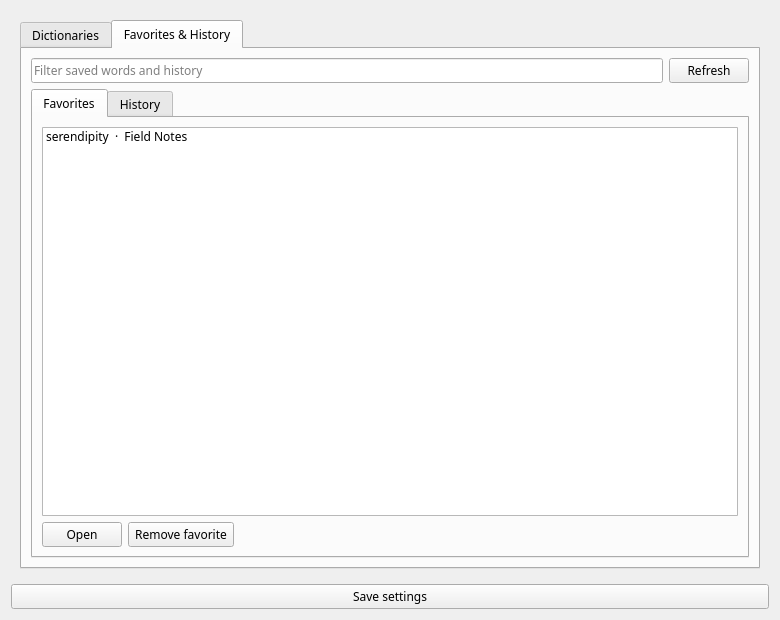
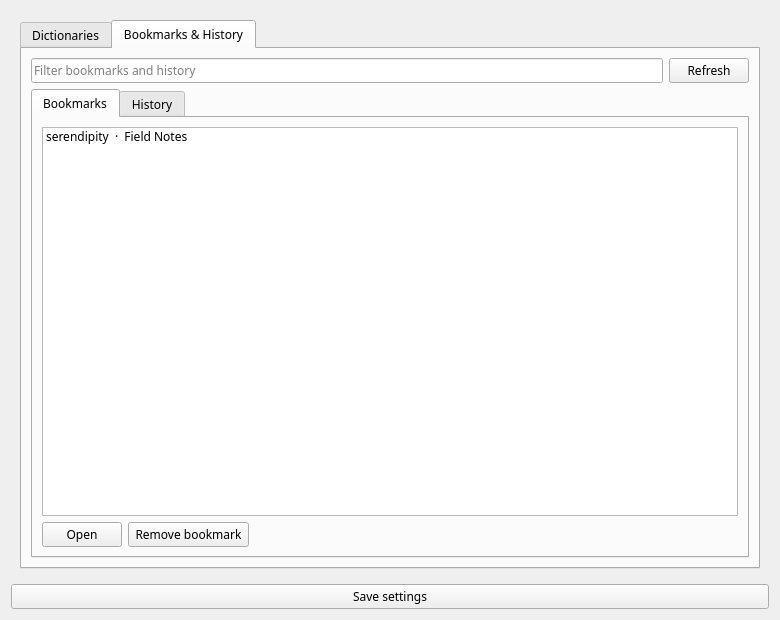
Document bookmarks and verify Unicode navigation

diff --git a/tests/articlewindow_test.cpp b/tests/articlewindow_test.cpp
@@ -10,6 +10,7 @@
 #include <QUrl>
 #include <QtTest>
 #include <sqlite3.h>
+#include <algorithm>
 
 class ArticleWindowTest : public QObject {
     Q_OBJECT
@@ -47,6 +48,7 @@ void ArticleWindowTest::bookmarkAndLinkedEntry()
     QVERIFY(preferences->text().isEmpty());
     QVERIFY(!bookmark->icon().isNull());
     QVERIFY(!preferences->icon().isNull());
+    QVERIFY(preferences->toolTip().contains(QStringLiteral("Preferences")));
     bookmark->click();
     const auto saved = UserState::favorites();
     QCOMPARE(saved.size(), 1);
@@ -58,8 +60,15 @@ void ArticleWindowTest::bookmarkAndLinkedEntry()
     QVERIFY(QMetaObject::invokeMethod(body, "anchorClicked", Qt::DirectConnection, Q_ARG(QUrl, link)));
     QCOMPARE(window.currentArticle().headword, QStringLiteral("猫"));
     QVERIFY(body->toPlainText().contains(QStringLiteral("猫 means cat")));
+    bookmark->click();
+    const auto savedAfterNavigation = UserState::favorites();
+    QCOMPARE(savedAfterNavigation.size(), 2);
+    QVERIFY(std::any_of(savedAfterNavigation.cbegin(), savedAfterNavigation.cend(), [](const SavedEntry &entry) {
+        return entry.headword == QStringLiteral("猫") && !entry.source.isEmpty();
+    }));
     QCOMPARE(UserState::history().size(), 2);
     UserState::setFavorite(Store::article(source, 1), false);
+    UserState::setFavorite(Store::article(source, 2), false);
     UserState::clearHistory();
     QFile::remove(path);
     QFile::remove(UserState::databasePath());

diff --git a/README.md b/README.md
@@ -1,8 +1,8 @@
 # Wordspring Runner
 
-An offline dictionary lookup plugin for Plasma 6 KRunner. Type `define word` to see up to four short meanings from each enabled dictionary; press Enter to read the full entry in a styled article window. Save favorite entries and revisit recent lookups from settings. The trigger word is configurable.
+An offline dictionary lookup plugin for Plasma 6 KRunner. Type `define word` to see up to four short meanings from each enabled dictionary; press Enter to read the full entry in a styled article window. Bookmark entries and revisit recent lookups from settings. The trigger word is configurable.
 
-| Article | Dictionaries | Favorites and history |
+| Article | Dictionaries | Bookmarks and history |
 | --- | --- | --- |
 | ![Wordspring article window, using synthetic dictionary content](docs/screenshots/wordspring-article.png) | ![Wordspring dictionary settings, using synthetic dictionary names](docs/screenshots/wordspring-settings.png) | ![Wordspring saved words settings, using synthetic entries](docs/screenshots/wordspring-activity.png) |
 
@@ -14,7 +14,7 @@ The screenshots use synthetic entries. No dictionary data is included in the rep
 - Add a folder to discover multiple dictionary bundles and StarDict files. Enable, disable, reorder, reimport, or remove sources in settings. Each source has an editable short label for KRunner; for example, Oxford Dictionary of English defaults to **ODE**.
 - Keep an indexed SQLite copy of each dictionary in your XDG data directory. Lookup opens only the enabled databases and never runs the importer.
 - Use the Apple bundle's semantic markup to distinguish headwords, pronunciation, parts of speech, numbered senses, examples, phrases, and origins. Original Apple CSS, audio, and embedded images are not included.
-- Star an entry in the article window. The **Favorites & History** page lets you filter and reopen saved words, remove favorites, and clear lookup history independently of favorites.
+- Use the bookmark icon in the article window; the settings icon opens preferences. The **Bookmarks & History** page lets you filter and reopen saved words, remove bookmarks, and clear lookup history without removing bookmarks.
 
 ## Requirements
 
@@ -56,9 +56,9 @@ Use `define run` in KRunner. Selecting a result opens the full entry. Click an i
 
 ## Data and performance
 
-Imported databases live at `$XDG_DATA_HOME/wordspring/dictionaries/` (usually `~/.local/share/wordspring/dictionaries/`). Favorites and recently opened entries live in `$XDG_DATA_HOME/wordspring/state.sqlite`; history is capped at 500 distinct entries. Settings live in `wordspringrc` under the XDG config directory. Reimport replaces a database atomically; a failed import leaves the previous copy available. Removing a source deletes its imported copy but never touches the original dictionary.
+Imported databases live at `$XDG_DATA_HOME/wordspring/dictionaries/` (usually `~/.local/share/wordspring/dictionaries/`). Bookmarks and recently opened entries live in `$XDG_DATA_HOME/wordspring/state.sqlite`; history is capped at 500 distinct entries. Settings live in `wordspringrc` under the XDG config directory. Reimport replaces a database atomically; a failed import leaves the previous copy available. Removing a source deletes its imported copy but never touches the original dictionary.
 
-On the development machine, the supplied Oxford Dictionary of English produced 114,925 entries and a 144 MB SQLite file. A repeated exact lookup of `run` took about 0.14 ms median with a warm filesystem cache. These numbers are local measurements, not a cross-machine guarantee. Import is a one-time operation; large dictionaries can take tens of seconds. The Apple parser keeps key and cross-reference indexes in memory while importing, but the runtime plugin never loads the whole dictionary.
+On the development machine, the supplied Oxford Dictionary of English produced 114,925 entries and the WISDOM English–Japanese/Japanese–English bundle produced 95,174 entries. A repeated exact lookup of `run` took about 0.14 ms median with a warm filesystem cache. These numbers are local measurements, not a cross-machine guarantee. Import is a one-time operation; large dictionaries can take tens of seconds. The Apple parser keeps key and cross-reference indexes in memory while importing, but the runtime plugin never loads the whole dictionary.
 
 ## Development
 
@@ -68,7 +68,7 @@ cmake --build build
 ctest --test-dir build --output-on-failure
 ```
 
-The C++ test checks indexed, Unicode, enabled-source lookup and the independent favorite/history state. The Python test builds a tiny StarDict fixture and checks synonym import, HTML filtering, and Apple-style structure. The importer can also be run directly:
+The C++ tests check indexed, Unicode, enabled-source lookup, bookmark and history persistence, article controls, and linked-entry navigation. The Python test builds a tiny StarDict fixture and checks synonym import, HTML filtering, and Apple-style structure. The importer can also be run directly:
 
 ```bash
 python importer/import_dictionary.py --input /path/to/dictionary.ifo --output /tmp/example.sqlite

diff --git a/CHANGELOG.md b/CHANGELOG.md
@@ -2,8 +2,10 @@
 
 ## 0.1.0
 
-- Styled article sections inspired by Apple Dictionary, with local favorites and recent lookup history.
-- Filter and reopen saved entries, and clear history without removing favorites.
+- Styled article sections inspired by Apple Dictionary, with local bookmarks and recent lookup history.
+- Filter and reopen saved entries, and clear history without removing bookmarks.
+- Icon-only article controls for bookmarking and preferences; recover bookmarks saved by the earlier article-window bug.
+- Format WISDOM Japanese translation examples into readable rows and support Japanese internal links.
 - Show up to four primary meanings in a multiline KRunner result, with the dictionary name in the category column.
 - Use editable short dictionary labels in KRunner's fixed-width category column.
 - Native Plasma 6 KRunner lookup with a configurable trigger.
